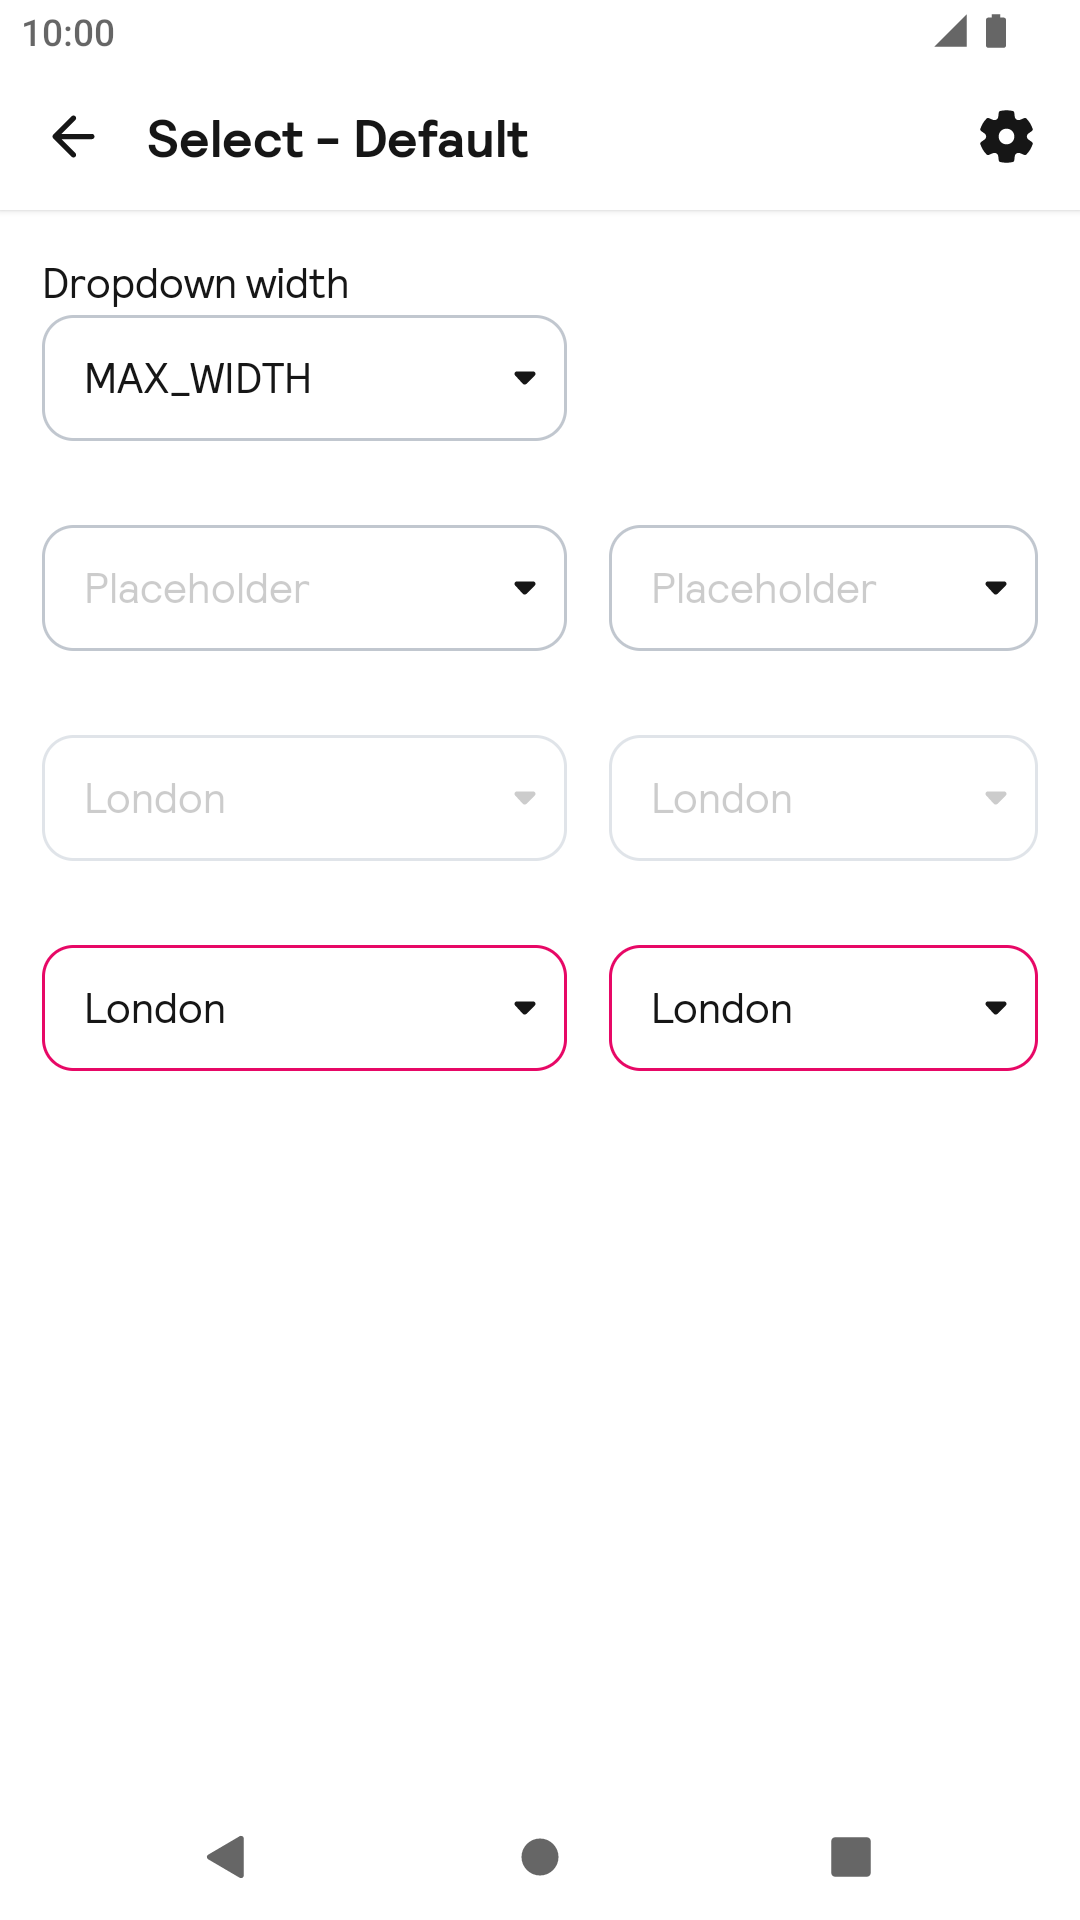
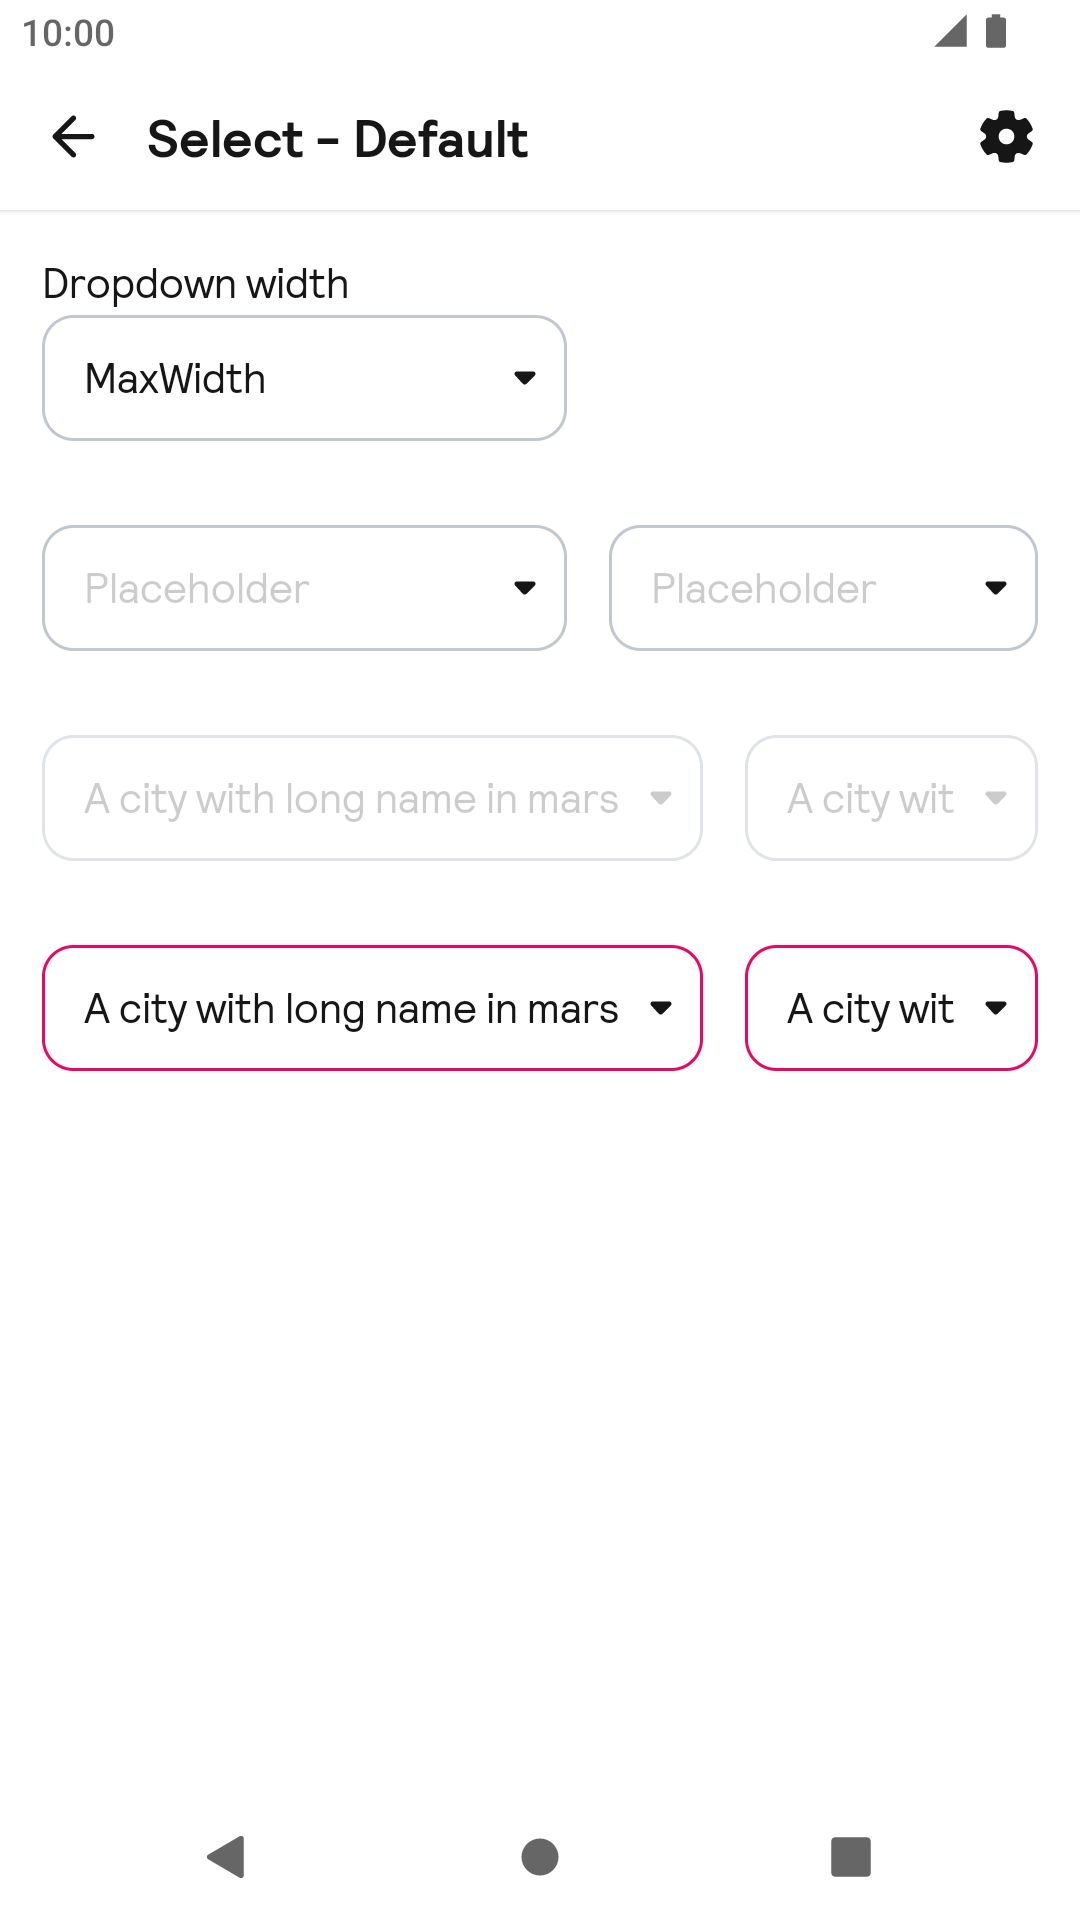
DOn-856 Update docs

diff --git a/docs/compose/Select/README.md b/docs/compose/Select/README.md
@@ -18,6 +18,12 @@ Match Option width allows the options to expand as far as they need without elli
 it belongs to.
 Match Select width means the options will be as wide as the parent Select's width which can lead to truncation.
 
+| Width            | Day                                                                                                                                                                                                                                | Night                                                                                                                                                                                                                                             |
+|------------------|------------------------------------------------------------------------------------------------------------------------------------------------------------------------------------------------------------------------------------|---------------------------------------------------------------------------------------------------------------------------------------------------------------------------------------------------------------------------------------------------|
+| MaxWidth         | <img src="https://raw.githubusercontent.com/Skyscanner/backpack-android/main/docs/compose/Select/screenshots/maxwidth.png" alt="Select component showing dropdown extending full width of screen" width="375" />                   | <img src="https://raw.githubusercontent.com/Skyscanner/backpack-android/main/docs/compose/Select/screenshots/maxwidth_dm.png" alt="Select component showing dropdown extending full width of screen - dark mode" width="375" />                   |
+| MatchOptionWidth | <img src="https://raw.githubusercontent.com/Skyscanner/backpack-android/main/docs/compose/Select/screenshots/matchoptionwidth.png" alt="Select component showing dropdown extending as wide as longest option text" width="375" /> | <img src="https://raw.githubusercontent.com/Skyscanner/backpack-android/main/docs/compose/Select/screenshots/matchoptionwidth_dm.png" alt="Select component showing dropdown extending as wide as longest option text - dark mode" width="375" /> |
+| MatchSelectWidth | <img src="https://raw.githubusercontent.com/Skyscanner/backpack-android/main/docs/compose/Select/screenshots/matchselectwidth.png" alt="Select component showing dropdown matching width of parent" width="375" />                 | <img src="https://raw.githubusercontent.com/Skyscanner/backpack-android/main/docs/compose/Select/screenshots/matchselectwidth_dm.png" alt="Select component showing dropdown matching width of parent - dark mode" width="375" />                 |
+
 ## Installation
 
 Backpack Compose is available through [Maven Central](https://search.maven.org/artifact/net.skyscanner.backpack/backpack-compose). Check the main [Readme](https://github.com/skyscanner/backpack-android#installation) for a complete installation guide.
